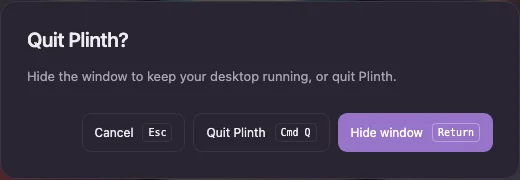
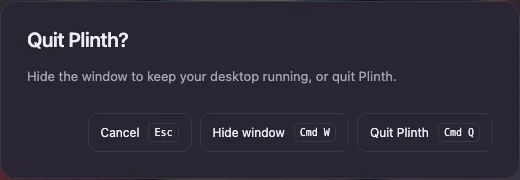
Center Hide window and remove the quit dialog default action

Changed region(s): [[0.4, 0.6111, 0.9538, 0.8611], [0.1846, 0.6944, 0.3385, 0.7778]]

diff --git a/src/app.css b/src/app.css
@@ -1,6 +1,6 @@
 *{box-sizing:border-box} :root{font-family:-apple-system,BlinkMacSystemFont,'Segoe UI',sans-serif;font-size:14px;color-scheme:dark;--background:radial-gradient(ellipse at 5% 0%,#58334d38,transparent 48%),radial-gradient(ellipse at 100% 15%,#28686829,transparent 44%),radial-gradient(ellipse at 80% 100%,#65482d21,transparent 48%),#14151c;--paper:#201d29e6;--paper-strong:#292531;--ink:#f0ebf3;--muted:#aaa1b3;--faint:#726d7e;--line:#3c3547;--accent:#b99ce7;--accent-bg:#9774c9;--danger:#ef9baa}
 :root[data-theme=light]{color-scheme:light;--background:radial-gradient(ellipse at 0% 0%,#efdce9,transparent 55%),radial-gradient(ellipse at 100% 10%,#dcefee,transparent 50%),#f7f5f3;--paper:#fffdfcd9;--paper-strong:#f0ebf1;--ink:#2b2632;--muted:#7f7387;--faint:#93899a;--line:#dfd6e4;--accent:#74509e;--accent-bg:#805ba9;--danger:#a94057}
-body{margin:0;background:var(--background);background-attachment:fixed;color:var(--ink);min-width:360px}button,input,select{font:inherit}button,select{cursor:pointer}button{display:inline-flex;align-items:center;justify-content:center;gap:9px;border:1px solid var(--line);border-radius:9px;background:transparent;color:var(--ink);padding:10px 14px;transition:background .15s,border-color .15s}button:hover:not(:disabled){background:var(--paper-strong);border-color:var(--faint)}button:disabled{opacity:.5;cursor:default}button.primary{background:var(--accent-bg);border-color:transparent;color:#fff}button.primary:hover:not(:disabled){background:color-mix(in srgb,var(--accent-bg) 85%,white)}button.icon-only{width:34px;height:34px;padding:7px;border-color:transparent;background:transparent}button.text-button{padding:0;border:0;color:var(--accent);background:none;font-size:12px}button:focus-visible,a:focus-visible,input:focus-visible,select:focus-visible{outline:2px solid var(--accent);outline-offset:4px}svg{display:block;flex:0 0 auto}h1,h2,h3,p{margin:0}h1{font-size:34px;font-weight:550;letter-spacing:-1.2px;line-height:1.3}h2{font-size:17px;font-weight:550;letter-spacing:-.3px}small{font-size:12px;color:var(--muted)}input,select{border:1px solid var(--line);background:var(--paper);color:var(--ink);border-radius:8px;padding:10px 12px;min-width:0}select{font-size:12px}label{display:grid;gap:8px;font-size:12px}a{color:inherit;text-decoration:none}kbd{font:10px ui-monospace,monospace;padding:3px 5px;border:1px solid var(--line);border-radius:4px;color:var(--muted)}
+body{margin:0;background:var(--background);background-attachment:fixed;color:var(--ink);min-width:360px}button,input,select{font:inherit}button,select{cursor:pointer}button{display:inline-flex;align-items:center;justify-content:center;gap:9px;border:1px solid var(--line);border-radius:9px;background:transparent;color:var(--ink);padding:10px 14px;transition:background .15s,border-color .15s}button:hover:not(:disabled){background:var(--paper-strong);border-color:var(--faint)}button:disabled{opacity:.5;cursor:default}button.primary{background:var(--accent-bg);border-color:transparent;color:#fff}button.primary:hover:not(:disabled){background:color-mix(in srgb,var(--accent-bg) 85%,white)}button.icon-only{width:34px;height:34px;padding:7px;border-color:transparent;background:transparent}button.text-button{padding:0;border:0;color:var(--accent);background:none;font-size:12px}button:focus-visible,a:focus-visible,input:focus-visible,select:focus-visible{outline:1px solid var(--faint);outline-offset:2px}svg{display:block;flex:0 0 auto}h1,h2,h3,p{margin:0}h1{font-size:34px;font-weight:550;letter-spacing:-1.2px;line-height:1.3}h2{font-size:17px;font-weight:550;letter-spacing:-.3px}small{font-size:12px;color:var(--muted)}input,select{border:1px solid var(--line);background:var(--paper);color:var(--ink);border-radius:8px;padding:10px 12px;min-width:0}select{font-size:12px}label{display:grid;gap:8px;font-size:12px}a{color:inherit;text-decoration:none}kbd{font:10px ui-monospace,monospace;padding:3px 5px;border:1px solid var(--line);border-radius:4px;color:var(--muted)}
 .titlebar{height:34px;padding:0 27px 0 86px;display:flex;align-items:center;justify-content:space-between;color:var(--faint);font-size:10px;letter-spacing:.2px;user-select:none}.local-indicator{display:flex;gap:6px;align-items:center}.local-indicator>span{width:4px;height:4px;border-radius:50%;background:#85b7a0}header{height:84px;border-bottom:1px solid var(--line);display:flex;align-items:center;justify-content:space-between;gap:24px;padding:0 40px}header>.primary{font-size:12px;padding:10px 13px}.brand{display:flex;align-items:center;gap:10px;font-size:28px;font-weight:760;letter-spacing:-1.4px}.brand-mark{display:grid;place-items:center;width:34px;height:34px;border:1px solid #9882b55c;border-radius:10px;background:linear-gradient(140deg,#c690c226,#6bbbba20);color:#c5addf}.brand-mark svg{width:25px;height:25px}.version{font-size:9px;font-weight:400;letter-spacing:0;color:var(--faint);align-self:start;padding-top:6px}nav{display:flex;gap:5px}nav button{font-size:12px;border-color:transparent;padding:10px 13px;color:var(--muted)}nav button.active{background:var(--paper-strong);border-color:var(--line);color:var(--ink)}nav button svg{width:16px;height:16px}main{max-width:1440px;margin:0 auto;padding:40px 44px 0}.page-heading{display:flex;justify-content:space-between;align-items:center;gap:20px;margin-bottom:36px}.eyebrow{display:block;color:var(--faint);font-size:9px;letter-spacing:1.7px;font-weight:550;margin-bottom:10px}.page-heading p{margin-top:9px;font-size:13px;color:var(--muted);line-height:1.6}.status-pill{font-size:11px;border-radius:22px;padding:9px 13px;background:var(--paper);color:var(--muted);white-space:nowrap}.status-pill svg{width:12px;height:12px;margin-left:5px}.status-dot{width:6px;height:6px;border-radius:50%;background:#83c9ac;box-shadow:0 0 8px #83c9ac22}.paused .status-dot{background:var(--faint)}
 .collection-toolbar{display:flex;align-items:center;justify-content:space-between;gap:20px;border-bottom:1px solid var(--line);margin-bottom:25px;min-height:52px}.collection-tabs{display:flex;align-items:center;gap:22px;align-self:stretch}.collection-meta{display:flex;align-items:center;font-size:11px;color:var(--faint)}.toolbar-right{display:flex;gap:10px;align-items:center;padding-bottom:10px}.toolbar-right select{border-color:transparent;background:transparent;padding-right:5px}.search{display:flex;align-items:center;gap:8px;border:1px solid var(--line);background:var(--paper);border-radius:7px;padding:0 9px;color:var(--faint)}.search>svg{width:14px;height:14px}.search input{width:145px;border:0;background:none;padding:8px 0;font-size:11px}.search kbd{padding:1px 4px;font-size:9px}.album-grid{display:grid;grid-template-columns:repeat(6,minmax(0,1fr));gap:26px 22px}.album-card{min-width:0}.artwork{display:block;position:relative;width:100%;padding:0;border:0;border-radius:7px;background:var(--paper-strong);aspect-ratio:1;box-shadow:0 5px 10px #0002;overflow:hidden;transition:transform .2s,box-shadow .2s}.artwork:hover:not(:disabled){transform:translateY(-3px);box-shadow:0 8px 20px #0004}.artwork img{width:100%;height:100%;object-fit:cover;display:block}.artwork-edit{position:absolute;bottom:0;left:0;right:0;background:linear-gradient(transparent,#000b);color:#fff;padding:30px 10px 12px;font-size:11px;display:flex;gap:6px;justify-content:center;opacity:0;transition:opacity .2s}.artwork-edit svg{width:13px;height:13px}.artwork:hover .artwork-edit,.artwork:focus-visible .artwork-edit{opacity:1}.album-caption{display:flex;justify-content:space-between;align-items:center;gap:3px;padding-top:11px}.album-caption>div{min-width:0}.album-caption h2{font-size:12px;font-weight:500;letter-spacing:0;overflow:hidden;text-overflow:ellipsis;white-space:nowrap;line-height:1.5}.album-caption p{color:var(--muted);font-size:10px;margin-top:2px;text-overflow:ellipsis;overflow:hidden;white-space:nowrap}.album-open{opacity:0;flex:0 0 auto;width:23px!important;height:25px!important;padding:3px!important}.album-open svg{width:15px;height:15px}.album-card:hover .album-open,.album-card:focus-within .album-open{opacity:1}.album-card.disabled img{opacity:.4}.hidden-label{position:absolute;top:8px;left:8px;border-radius:4px;background:#000b;padding:4px 6px;font-size:9px;color:white}.import-strip{display:flex;align-items:center;justify-content:space-between;gap:16px;margin-top:34px;padding:20px 22px;border:1px dashed var(--line);border-radius:10px}.import-copy{display:flex;align-items:center;gap:15px}.folder-mark{display:grid;place-items:center;width:34px;height:34px;border-radius:8px;background:var(--paper-strong);color:var(--accent)}.import-copy strong{font-size:12px;font-weight:500}.import-copy p{font-size:11px;color:var(--muted);margin-top:5px}.import-strip>button{font-size:11px;padding:8px 10px;white-space:nowrap}.import-strip>button svg{width:13px;height:13px}footer{display:flex;align-items:center;justify-content:space-between;gap:20px;padding:25px 0;color:var(--faint);font-size:10px}footer>span:first-child{display:flex;align-items:center;gap:7px}footer svg{width:14px;height:14px}
 .empty-state{min-height:370px;display:flex;flex-direction:column;align-items:center;justify-content:center;text-align:center;gap:18px}.empty-state .eyebrow{margin:0}.empty-state h2{font-size:25px}.empty-state p{font-size:13px;line-height:1.8;color:var(--muted)}.empty-art{width:64px;height:64px;background:var(--paper);border:1px solid var(--line);border-radius:16px;display:grid;place-items:center;color:var(--accent)}.empty-art svg{width:30px;height:30px}.actions{display:flex;gap:10px}.panel{background:var(--paper);border:1px solid var(--line);border-radius:13px;padding:24px}.panel-heading{display:flex;align-items:center;justify-content:space-between;margin-bottom:21px}.appearance-layout{display:grid;grid-template-columns:minmax(0,1.6fr) minmax(310px,1fr);gap:32px}.preview-column{position:sticky;top:25px;align-self:start}.section-label{display:flex;justify-content:space-between;color:var(--faint);font-size:9px;letter-spacing:1px;margin-bottom:16px}.section-label>span:last-child{letter-spacing:0}.monitor-preview{position:relative;border:6px solid #302c38;border-bottom-width:16px;border-radius:14px;background:radial-gradient(ellipse at 15% 10%,#735c6880,transparent 60%),linear-gradient(140deg,#253543,#202128 55%,#514e40);height:350px;overflow:hidden;box-shadow:0 16px 35px #0002}.preview-menubar{display:flex;gap:8px;align-items:center;font-size:7px;color:#ddd;background:#ffffff0a;height:15px;padding:0 7px}.preview-menubar svg{width:9px;height:9px}.preview-clock{margin-left:auto}.preview-art{display:grid;align-content:start;max-height:calc(100% - 15px);overflow:auto}.preview-art img{width:100%;aspect-ratio:1;object-fit:cover;transition:transform .2s;position:relative}.preview-art img:hover{transform:scale(var(--preview-scale));z-index:10}.preview-empty{font-size:12px;color:#bbb;grid-column:1/-1;padding:80px 0;text-align:center}.preview-dock{position:absolute;bottom:6px;left:50%;transform:translateX(-50%);display:flex;gap:6px;padding:5px 7px;border:1px solid #ffffff22;background:#ffffff18;border-radius:8px;backdrop-filter:blur(12px)}.preview-dock>span{display:block;width:18px;height:18px;border-radius:5px;background:#90b1be88}.preview-dock>span:nth-child(2){background:#b48caf88}.preview-dock>span:nth-child(3){background:#b9b19188}.preview-dock>span:nth-child(4){background:#91b9a988}.monitor-foot{width:100px;height:29px;background:linear-gradient(#302c38,#403b46);margin:0 auto;border-radius:0 0 12px 12px;clip-path:polygon(30% 0,70% 0,77% 82%,100% 90%,100% 100%,0 100%,0 90%,23% 82%)}.preview-note{color:var(--muted);font-size:11px;display:flex;align-items:center;justify-content:center;gap:8px;line-height:1.6;margin:22px 0}.preview-note svg{width:14px;height:14px}.feature-note{display:flex;gap:15px;border-top:1px solid var(--line);padding-top:25px;margin-top:32px;color:var(--muted)}.feature-note>svg{color:var(--accent)}.feature-note strong{font-size:12px;font-weight:500;color:var(--ink)}.feature-note p{font-size:12px;line-height:1.8;margin-top:8px;max-width:390px}.segmented{display:flex;border:1px solid var(--line);border-radius:8px;padding:3px;gap:3px;margin-bottom:9px}.segmented button{flex:1;padding:7px 4px;font-size:11px;border:0;border-radius:5px;color:var(--muted)}.segmented button.chosen{background:var(--paper-strong);color:var(--ink)}.field-note{font-size:11px;color:var(--muted);line-height:1.7}.slider-field{margin-top:20px;gap:9px}.slider-field>span{display:flex;justify-content:space-between;font-size:12px}.slider-field output{font:11px ui-monospace,monospace;color:var(--muted)}input[type=range]{width:100%;height:4px;margin:5px 0;padding:0;accent-color:var(--accent);cursor:pointer}.toggle-row{display:flex;align-items:center;justify-content:space-between;gap:20px;margin-top:22px;font-size:12px}.toggle-row small{display:block;font-size:10px;color:var(--muted);margin-top:6px}.switch{appearance:none;flex:0 0 auto;width:32px;height:19px;border-radius:20px;padding:0;background:var(--line);border:0;position:relative;cursor:pointer}.switch:after{content:'';display:block;width:13px;height:13px;border-radius:50%;background:#fff;position:absolute;top:3px;left:3px;transition:transform .15s}.switch:checked{background:var(--accent-bg)}.switch:checked:after{transform:translateX(13px)}.control-divider{border-top:1px solid var(--line);margin-top:26px}.settings-grid{display:grid;grid-template-columns:1fr 1fr;gap:22px}.settings-panel h2{margin-bottom:12px;font-size:20px}.settings-panel>p.description{font-size:13px;line-height:1.85;color:var(--muted);margin-bottom:24px}.setting-row{display:flex;align-items:center;justify-content:space-between;gap:16px;margin:25px 0}.setting-row select{max-width:60%}.storage-summary{display:flex;gap:45px;margin:24px 0 30px;color:var(--muted);font-size:11px}.storage-summary strong{display:block;font-size:30px;color:var(--ink);font-weight:500;letter-spacing:-1px;margin-bottom:6px}.settings-panel>button{font-size:12px;margin-bottom:15px}.shortcut-row{border-top:1px solid var(--line);padding-top:16px;margin-bottom:20px;display:flex;align-items:center;justify-content:space-between;font-size:12px}
@@ -25,7 +25,7 @@ dialog{width:min(510px,calc(100vw - 40px));padding:26px;border:1px solid var(--l
 
 .sort-picker{position:relative}.sort-trigger{font-size:12px;min-width:128px;justify-content:space-between;border-color:transparent;padding:8px 10px}.sort-trigger svg{width:14px;height:14px}.sort-menu{position:absolute;z-index:30;right:0;top:calc(100% + 7px);width:175px;background:var(--paper-strong);border:1px solid var(--line);border-radius:9px;box-shadow:0 10px 30px #0004;padding:5px}.sort-menu button{width:100%;border:0;justify-content:space-between;border-radius:5px;font-size:12px;padding:10px}.sort-menu button[aria-checked=true]{color:var(--accent)}.sort-menu button:hover{background:var(--paper)}.sort-menu button svg{width:14px;height:14px}@media(max-width:760px){.toolbar-right{flex-wrap:wrap;justify-content:flex-end}.desktop-toggle{min-width:90px}.sort-trigger{min-width:105px}}
 
-.quit-actions{flex-wrap:wrap}.quit-actions kbd{color:inherit;font-size:10px;white-space:nowrap}.quit-actions .primary kbd{border-color:#ffffff55}
+.quit-actions{flex-wrap:wrap}.quit-actions kbd{color:inherit;font-size:10px;white-space:nowrap}.quit-dialog h2:focus{outline:none}
 
 /* Album lists stay fixed; overflow is clipped rather than scrollable. */
 .collection-document,.collection-document body{height:100%;overflow:clip;overscroll-behavior:none}.collection-document body{position:fixed;inset:0}.collection-document .app-shell{height:100dvh;overflow:clip}

diff --git a/src/App.svelte b/src/App.svelte
@@ -20,7 +20,7 @@
  let artworkTarget:HTMLDivElement
  let replacing=false
  let files:HTMLInputElement
- let hideButton:HTMLButtonElement
+ let quitHeading:HTMLHeadingElement
  let quitDialog:HTMLDialogElement
  let quitBackdropDown=false
  let modal:HTMLDialogElement
@@ -76,7 +76,7 @@
  async function replace(input:string|File){if(!edit)return;replacing=true;try{const result=await api.replaceArtwork(edit,input);edit={...edit,cover:result.cover,original:result.original}}catch{await api.showAlert('This image could not be used. Choose a supported image file.')}finally{replacing=false}}
  async function chooseReplacement(){if(!api.native){replacementFiles.click();return}try{const paths=await api.chooseImages(true);if(paths.length)await replace(paths[0])}catch{await api.showAlert('The image picker could not be opened.')}}
  async function download(){if(!edit)return;try{await api.downloadArtwork(edit)}catch{await api.showAlert('The original artwork could not be saved. Choose another location.')}}
- function showQuit(){if(!quitDialog?.open){quitDialog?.showModal();hideButton?.focus()}}
+ function showQuit(){if(!quitDialog?.open){quitDialog?.showModal();quitHeading?.focus()}}
  async function flushSettings(){clearTimeout(saveTimer);await saveQueue;if(settingsDirty){await api.saveSettings(structuredClone(library.settings));settingsDirty=false}}
  async function hideWindow(){try{await flushSettings();quitDialog?.close();if(api.native)await invoke('hide_window')}catch{await api.showAlert('The window could not be hidden.')}}
  async function quitApp(){try{await flushSettings();if(api.native)await invoke('quit_app');else quitDialog.close()}catch{await api.showAlert('Plinth could not quit.')}}
@@ -175,8 +175,8 @@
  {#if edit}<form onsubmit={(e)=>{e.preventDefault();void saveAlbum()}}><div class="modal-heading"><button class="icon-only" type="button" aria-label="Close album editor" onclick={closeEditor}><Icon name="close"/></button></div><div class="editor-top"><div class="editor-artwork" bind:this={artworkTarget} class:replacing ondragover={(e)=>e.preventDefault()} ondrop={(e)=>{e.preventDefault();if(!api.native&&e.dataTransfer?.files.length===1)void replace(e.dataTransfer.files[0])}} role="presentation"><img draggable="false" ondragstart={(e)=>e.preventDefault()} src={api.originalUrl(edit)} alt={edit.title}/><div class="artwork-actions"><button type="button" class="icon-only" aria-label="Download original artwork" title="Download original artwork" onclick={download} disabled={replacing}><Icon name="download"/></button><button type="button" class="icon-only" aria-label="Replace artwork" title="Replace artwork" onclick={chooseReplacement} disabled={replacing}><Icon name="replace"/></button></div>{#if replacing}<span class="replacement-progress">Replacing…</span>{/if}</div><div><span class="eyebrow">IN YOUR COLLECTION</span><h3>{edit.title}</h3><p>{edit.artist||'Make it your own.'}</p><button type="button" class="text-button" onclick={()=>edit&&open(edit)}><Icon name="music"/>Open in Music</button></div></div><label>Album title<input required bind:value={edit.title}/></label><div class="two-fields"><label>Artist<input bind:value={edit.artist}/></label><label>Release date<input type="date" bind:value={edit.date}/></label></div><label>Album link <span class="optional">optional</span><input type="url" placeholder="https://music.apple.com/…" bind:value={edit.url}/></label><label class="toggle-row"><span>Show on desktop</span><input class="switch" type="checkbox" bind:checked={edit.enabled}/></label><div class="editor-actions">{#if confirmRemove}<button type="button" class="danger" onclick={remove}>Remove this album</button><button type="button" onclick={()=>confirmRemove=false}>Keep it</button>{:else}<button type="button" class="icon-only danger" aria-label="Remove album" onclick={()=>confirmRemove=true}><Icon name="trash"/></button><button type="submit" class="primary"><Icon name="check"/>Save changes</button>{/if}</div></form>{/if}
  </dialog>
  <dialog class="quit-dialog" bind:this={quitDialog} aria-labelledby="quit-title" onpointerdown={(e)=>quitBackdropDown=e.target===quitDialog&&outsideDialog(quitDialog,e)} onpointerup={(e)=>{if(quitBackdropDown&&e.target===quitDialog&&outsideDialog(quitDialog,e))quitDialog.close();quitBackdropDown=false}}>
-  <h2 id="quit-title">Quit Plinth?</h2><p>Hide the window to keep your desktop running, or quit Plinth.</p>
-  <div class="quit-actions"><button aria-label="Cancel" aria-keyshortcuts="Escape" onclick={()=>quitDialog.close()}>Cancel<kbd aria-hidden="true">Esc</kbd></button><button aria-label="Quit Plinth" aria-keyshortcuts="Meta+Q Control+Q" onclick={quitApp}>Quit Plinth<kbd aria-hidden="true">Cmd Q</kbd></button><button bind:this={hideButton} class="primary" aria-label="Hide window" aria-keyshortcuts="Enter Meta+W Control+W" title="Hide window (Return or Command-W)" onclick={hideWindow}>Hide window<kbd aria-hidden="true">Return</kbd></button></div>
+  <h2 id="quit-title" bind:this={quitHeading} tabindex="-1">Quit Plinth?</h2><p>Hide the window to keep your desktop running, or quit Plinth.</p>
+  <div class="quit-actions"><button aria-label="Cancel" aria-keyshortcuts="Escape" onclick={()=>quitDialog.close()}>Cancel<kbd aria-hidden="true">Esc</kbd></button><button aria-label="Hide window" aria-keyshortcuts="Meta+W Control+W" onclick={hideWindow}>Hide window<kbd aria-hidden="true">Cmd W</kbd></button><button aria-label="Quit Plinth" aria-keyshortcuts="Meta+Q Control+Q" onclick={quitApp}>Quit Plinth<kbd aria-hidden="true">Cmd Q</kbd></button></div>
  </dialog>
 
 {/if}

diff --git a/tests/app.spec.ts b/tests/app.spec.ts
@@ -77,15 +77,21 @@ test('Option page navigation wraps, desktop toggle uses action labels, internal 
  await page.getByRole('button',{name:'Edit Soft Focus',exact:true}).click();await expect(page.locator('.editor-artwork>img')).toHaveAttribute('draggable','false');await expect(page.locator('.artwork-actions')).toHaveCSS('opacity','0');await page.locator('.editor-artwork').hover();await expect(page.locator('.artwork-actions')).toHaveCSS('opacity','1')
 })
 
-test('quit modal defaults to hide and provides keyboard actions without leaking shortcuts',async({page})=>{
+test('quit modal has no default action, puts Hide window in the middle, and retains keyboard shortcuts',async({page})=>{
  await page.goto('/?demo=1')
  const dialog=page.getByRole('dialog',{name:'Quit Plinth?'})
- const show=async()=>{await page.keyboard.press('Control+q');await expect(dialog).toBeVisible();await expect(page.getByRole('button',{name:'Hide window',exact:true})).toBeFocused()}
- await show();await page.keyboard.press('Enter');await expect(dialog).not.toBeVisible()
+ const show=async()=>{await page.keyboard.press('Control+q');await expect(dialog).toBeVisible();await expect(dialog.getByRole('heading')).toBeFocused()}
+ await show()
+ expect(await dialog.getByRole('button').evaluateAll(buttons=>buttons.map(button=>button.getAttribute('aria-label')))).toEqual(['Cancel','Hide window','Quit Plinth'])
+ await expect(dialog.locator('button:focus')).toHaveCount(0)
+ await expect(dialog.locator('button.primary')).toHaveCount(0)
+ await page.keyboard.press('Enter');await expect(dialog).toBeVisible()
+ await page.keyboard.press('Tab');await expect(dialog.getByRole('button',{name:'Cancel',exact:true})).toBeFocused()
+ await page.keyboard.press('Enter');await expect(dialog).not.toBeVisible()
  await show();await page.keyboard.press('Escape');await expect(dialog).not.toBeVisible()
  await show();await page.keyboard.press('Control+w');await expect(dialog).not.toBeVisible()
  await show();await page.keyboard.press('Control+q');await expect(dialog).not.toBeVisible()
- await show();await page.keyboard.press('/');await expect(page.getByRole('button',{name:'Hide window',exact:true})).toBeFocused()
+ await show();await page.keyboard.press('/');await expect(dialog.getByRole('heading')).toBeFocused()
  await page.keyboard.press('Escape')
  await page.keyboard.down('Control');await page.keyboard.down('q');await page.keyboard.down('q');await expect(dialog).toBeVisible();await page.keyboard.up('q');await page.keyboard.up('Control')
 })

diff --git a/README.md b/README.md
@@ -12,7 +12,7 @@ Plinth is a macOS menu bar app that turns your album artwork into an interactive
 - **Make it yours.** Change columns, spacing, top clearance, corner radius, shadow, opacity, hover size, and ordering in the UI. Sort by artist, title, newest date, oldest date, or shuffle; choosing Shuffled again creates a new order. Choose a Mac display or 4K monitor preview with a separate layout for each. Appearance selects the display containing the Plinth window and uses detected pixel dimensions and scaling. The Mac preview identifies the built-in panel, even when another display is primary. If macOS hides that panel with the lid closed, Plinth uses its last detected dimensions; before the first detection, it shows “Not detected.”
 - **Keep your music close.** Click a desktop cover to reveal its album in Apple Music, or open its saved HTTPS link. Edit titles, artists, release dates, links, and desktop visibility in the collection. The editor shows large original artwork, with download and replace controls that fade in on hover; drop a single image onto it to replace it. The collection and desktop use optimized copies.
 - **Hover without switching apps.** Hold the Hover size slider to preview a randomly selected album at the chosen enlargement; release to return it to normal. Native macOS pointer tracking enlarges covers over exposed desktop areas while another app retains focus. Covers stay behind normal windows; moving over another window clears the hover.
-- **Stay in the menu bar.** Plinth appears in the Dock while its window is open. Closing the window or pressing Command-W hides it and keeps the desktop running. Command-Q opens a dialog with Hide window selected by default (Return or Command-W), Quit Plinth (Command-Q), and Cancel (Escape). Left-click the menu bar icon to open Plinth. Right-click for Open Plinth, Hide desktop / Show desktop, and Quit Plinth.
+- **Stay in the menu bar.** Plinth appears in the Dock while its window is open. Closing the window or pressing Command-W hides it and keeps the desktop running. Command-Q opens a dialog with Cancel (Escape), Hide window (Command-W) in the middle, and Quit Plinth (Command-Q). No action is selected by default; Return does nothing until you focus a button. Left-click the menu bar icon to open Plinth. Right-click for Open Plinth, Hide desktop / Show desktop, and Quit Plinth.
 - **Keep everything local.** No account, cloud service, analytics, or encryption setup. The production app does not run an HTTP server or depend on Plash or Python.
 
 ![Live appearance controls](docs/screenshots/appearance.webp)

diff --git a/AGENTS.md b/AGENTS.md
@@ -25,7 +25,7 @@
 - Reuse the desktop renderer in the scaled screen preview. Keep the 250 ms / 251 ms jQuery swing hover timing consistent in both places.
 - Album editor uses original artwork with download and replacement controls; the collection and desktop use compressed copies.
 - Keep the whole top strip draggable and free of status copy.
-- Show a Dock icon while the main window is visible; hide it when the window closes. Command-W keeps the desktop running. Command-Q opens a Hide window / Quit Plinth / Cancel modal.
+- Show a Dock icon while the main window is visible; hide it when the window closes. Command-W keeps the desktop running. Command-Q opens a Cancel / Hide window / Quit Plinth modal, with Hide window in the middle. Focus the heading initially, not an action; use no default button or purple focus outline.
 - Left-click the menu bar icon opens the window; right-click opens its menu. Use “Hide desktop” / “Show desktop” labels in both menu and UI, synchronized to saved state.
 - Original artwork in the modal is large, with two subtle hover actions across its bottom edge. Disable dragging internal images; accept external image drops.
 - Option-Q / Option-W navigate pages with wraparound. Remember the main window size; keep the collection full-width with modest gutters.
